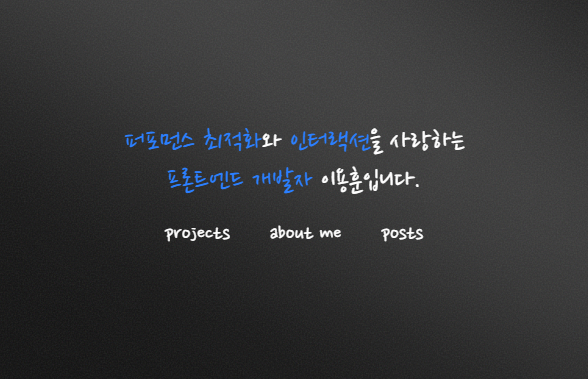
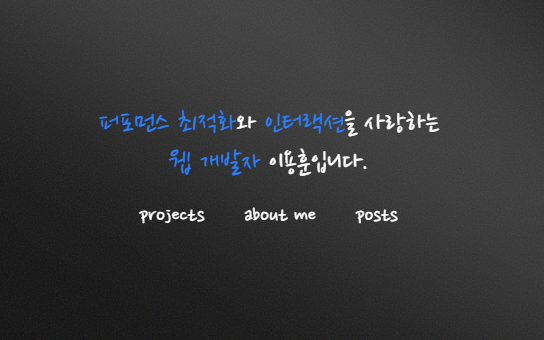
Fix: 오타 수정

diff --git a/src/app/pageClient.tsx b/src/app/pageClient.tsx
@@ -76,7 +76,7 @@ export default function HomeClient() {
           <span className="text-blue-500">퍼포먼스 최적화</span>와{" "}
           <span className="text-blue-500">인터랙션</span>을 사랑하는
           <br />
-          <span className="text-blue-500">프론트엔드 개발자</span> 이용훈입니다.
+          <span className="text-blue-500">웹 개발자</span> 이용훈입니다.
           <nav className="flex gap-8 justify-center text-white mt-3 text-lg md:text-xl lg:text-2xl">
             <Link href="/projects" className="active:animate-shake-rotate">
               projects
